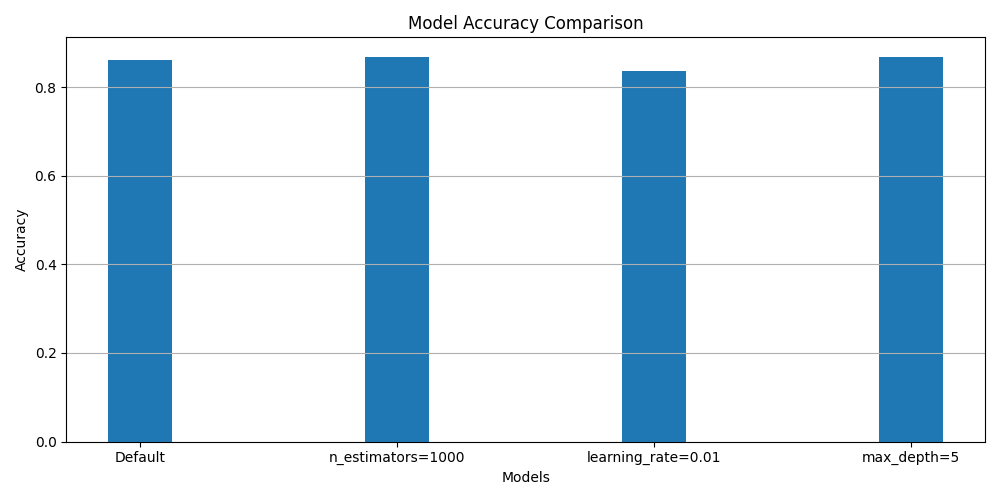
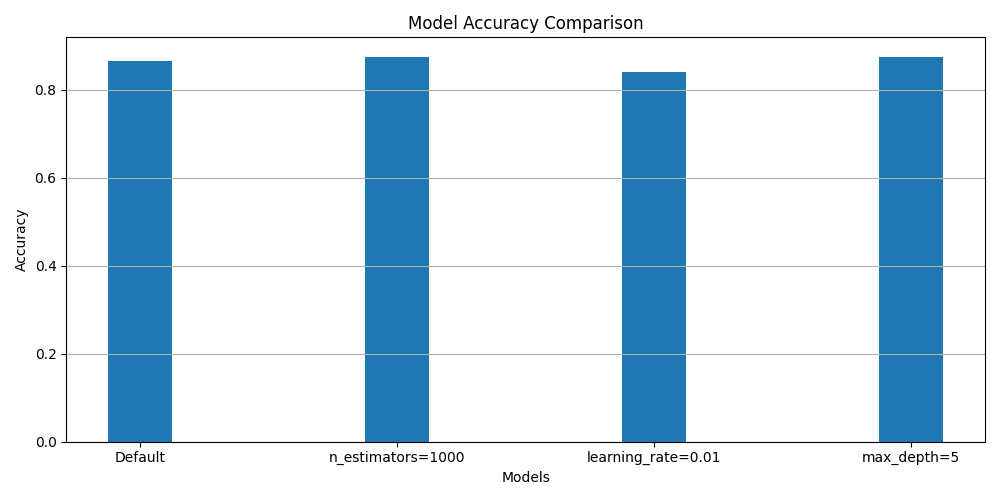
Majority of addition for clean code
Changed code according to comments and to
-make terminal output more clean.
-make code and output readable
-added graph for important feature.
-

diff --git a/harshal_gradient_boosting.py b/harshal_gradient_boosting.py
@@ -1,8 +1,8 @@
 import numpy as np
 import pandas as pd
 import timeit
-import memory_profiler
-import sklearn.model_selection as skms
+
+from sklearn.model_selection import train_test_split
 import sklearn.metrics as metrics
 import matplotlib.pyplot as plt
 from sklearn.ensemble import GradientBoostingClassifier
@@ -15,146 +15,163 @@ adult_data = pd.read_csv("data/group7-adult.csv")
 adult_data.replace(" ?", np.nan, inplace=True)
 adult_data.dropna(inplace=True)
 
-# Convert categorical data to numeric
-adult_data = pd.get_dummies(adult_data)
+# Remove/strip white spaces from all string columns
+string_cols = adult_data.select_dtypes(include=['object']).columns
+for col in string_cols:
+    adult_data[col] = adult_data[col].str.strip()
 
 # Features and target
-X = adult_data.drop(["income_ >50K", "income_ <=50K"], axis=1)
-y = adult_data["income_ >50K"]
+y = adult_data["income"]
+X = adult_data.drop("income", axis=1)
 
 # Split data 
-(Adult_training_ftrs, Adult_test_ftrs,
- adult_training_tgt, adult_test_tgt) = skms.train_test_split(
-    X, y, random_state=0
+(X_train, X_test,
+ y_train, y_test) = train_test_split(
+    X, y, random_state=0, stratify=y
 )
 
-print(f'Training features shape: {Adult_training_ftrs.shape}')
-print(f'Test features shape: {Adult_test_ftrs.shape}')
+print(f'\nTraining set: {X_train.shape[0]}, features: {X_train.shape[1]}')
+print(f'Test set: {X_test.shape[0]}, features: {X_test.shape[1]}\n')
+
+# Convert categorical data to numeric
+X_train = pd.get_dummies(X_train)
+X_test = pd.get_dummies(X_test)
+
+# Align train and test columns
+X_train, X_test = X_train.align(X_test, join='left', axis=1, fill_value=0)
 
 # Dictionary to store results
 results = {}
 
 
-# ---------------- MODELS ----------------
+            # MODELS #
+results = {}
 
-@memory_profiler.profile(precision=4)
-def run_model_default(Adult_training_ftrs, adult_training_tgt, Adult_test_ftrs, adult_test_tgt):
-    gbrt = GradientBoostingClassifier(random_state=0)
+# MODEL 1: Default 
+gbrt = GradientBoostingClassifier(random_state=0)
 
-    start_time = timeit.default_timer()
-    model = gbrt.fit(Adult_training_ftrs, adult_training_tgt)
-    end_time = timeit.default_timer()
-    train_time = round(1000*(end_time - start_time), 2)
+start_time = timeit.default_timer()
+model1 = gbrt.fit(X_train, y_train)
+end_time = timeit.default_timer()
+train_time = round(1000 * (end_time - start_time), 2)
 
-    print("\nModel 1 (Default)")
-    print(f'Training time: {train_time} ms')
+start_time = timeit.default_timer()
+pred1 = model1.predict(X_test)
+end_time = timeit.default_timer()
+pred_time = round(1000 * (end_time - start_time), 2)
 
-    start_time = timeit.default_timer()
-    predictions = model.predict(Adult_test_ftrs)
-    end_time = timeit.default_timer()
-    pred_time = round(1000*(end_time - start_time), 2)
+acc1 = metrics.accuracy_score(y_test, pred1)
 
-    print(f'Prediction time: {pred_time} ms')
+print("\nModel 1 - Default")
+print(f"Training Time: {train_time} ms")
+print(f"Prediction Time: {pred_time} ms")
+print(f"Accuracy: {acc1:.3f} ({round(100*acc1,1)}%)")
 
-    acc = metrics.accuracy_score(adult_test_tgt, predictions)
-    print(f'Accuracy: {acc:.3f} ({round(100*acc,1)}%)\n')
-
-    results["Default"] = {"train_time": train_time, "pred_time": pred_time, "accuracy": acc}
-
-
-@memory_profiler.profile(precision=4)
-def run_model_estimators(Adult_training_ftrs, adult_training_tgt, Adult_test_ftrs, adult_test_tgt):
-    gbrt = GradientBoostingClassifier(n_estimators=1000, random_state=0)
-
-    start_time = timeit.default_timer()
-    model = gbrt.fit(Adult_training_ftrs, adult_training_tgt)
-    end_time = timeit.default_timer()
-    train_time = round(1000*(end_time - start_time), 2)
-
-    print("\nModel 2 (n_estimators=1000)")
-    print(f'Training time: {train_time} ms')
-
-    start_time = timeit.default_timer()
-    predictions = model.predict(Adult_test_ftrs)
-    end_time = timeit.default_timer()
-    pred_time = round(1000*(end_time - start_time), 2)
-
-    print(f'Prediction time: {pred_time} ms')
-
-    acc = metrics.accuracy_score(adult_test_tgt, predictions)
-    print(f'Accuracy: {acc:.3f} ({round(100*acc,1)}%)\n')
-
-    results["n_estimators=1000"] = {"train_time": train_time, "pred_time": pred_time, "accuracy": acc}
+results["Default"] = (train_time, pred_time, acc1)
 
 
-@memory_profiler.profile(precision=4)
-def run_model_lr(Adult_training_ftrs, adult_training_tgt, Adult_test_ftrs, adult_test_tgt):
-    gbrt = GradientBoostingClassifier(learning_rate=0.01, random_state=0)
+# MODEL 2: n_estimators=1000 
+gbrt = GradientBoostingClassifier(n_estimators=1000, random_state=0)
 
-    start_time = timeit.default_timer()
-    model = gbrt.fit(Adult_training_ftrs, adult_training_tgt)
-    end_time = timeit.default_timer()
-    train_time = round(1000*(end_time - start_time), 2)
+start_time = timeit.default_timer()
+model2 = gbrt.fit(X_train, y_train)
+end_time = timeit.default_timer()
+train_time = round(1000 * (end_time - start_time), 2)
 
-    print("\nModel 3 (learning_rate=0.01)")
-    print(f'Training time: {train_time} ms')
+start_time = timeit.default_timer()
+pred2 = model2.predict(X_test)
+end_time = timeit.default_timer()
+pred_time = round(1000 * (end_time - start_time), 2)
 
-    start_time = timeit.default_timer()
-    predictions = model.predict(Adult_test_ftrs)
-    end_time = timeit.default_timer()
-    pred_time = round(1000*(end_time - start_time), 2)
+acc2 = metrics.accuracy_score(y_test, pred2)
 
-    print(f'Prediction time: {pred_time} ms')
+print("\nModel 2 - n_estimators=1000")
+print(f"Training Time: {train_time} ms")
+print(f"Prediction Time: {pred_time} ms")
+print(f"Accuracy: {acc2:.3f} ({round(100*acc2,1)}%)")
 
-    acc = metrics.accuracy_score(adult_test_tgt, predictions)
-    print(f'Accuracy: {acc:.3f} ({round(100*acc,1)}%)\n')
-
-    results["learning_rate=0.01"] = {"train_time": train_time, "pred_time": pred_time, "accuracy": acc}
+results["n_estimators=1000"] = (train_time, pred_time, acc2)
 
 
-@memory_profiler.profile(precision=4)
-def run_model_depth(Adult_training_ftrs, adult_training_tgt, Adult_test_ftrs, adult_test_tgt):
-    gbrt = GradientBoostingClassifier(max_depth=5, random_state=0)
+# MODEL 3: learning_rate=0.01 
+gbrt = GradientBoostingClassifier(learning_rate=0.01, random_state=0)
 
-    start_time = timeit.default_timer()
-    model = gbrt.fit(Adult_training_ftrs, adult_training_tgt)
-    end_time = timeit.default_timer()
-    train_time = round(1000*(end_time - start_time), 2)
+start_time = timeit.default_timer()
+model3 = gbrt.fit(X_train, y_train)
+end_time = timeit.default_timer()
+train_time = round(1000 * (end_time - start_time), 2)
 
-    print("\nModel 4 (max_depth=5)")
-    print(f'Training time: {train_time} ms')
+start_time = timeit.default_timer()
+pred3 = model3.predict(X_test)
+end_time = timeit.default_timer()
+pred_time = round(1000 * (end_time - start_time), 2)
 
-    start_time = timeit.default_timer()
-    predictions = model.predict(Adult_test_ftrs)
-    end_time = timeit.default_timer()
-    pred_time = round(1000*(end_time - start_time), 2)
+acc3 = metrics.accuracy_score(y_test, pred3)
 
-    print(f'Prediction time: {pred_time} ms')
+print("\nModel 3 - learning_rate=0.01")
+print(f"Training Time: {train_time} ms")
+print(f"Prediction Time: {pred_time} ms")
+print(f"Accuracy: {acc3:.3f} ({round(100*acc3,1)}%)")
 
-    acc = metrics.accuracy_score(adult_test_tgt, predictions)
-    print(f'Accuracy: {acc:.3f} ({round(100*acc,1)}%)\n')
-
-    results["max_depth=5"] = {"train_time": train_time, "pred_time": pred_time, "accuracy": acc}
+results["learning_rate=0.01"] = (train_time, pred_time, acc3)
 
 
-# Run models
-run_model_default(Adult_training_ftrs, adult_training_tgt, Adult_test_ftrs, adult_test_tgt)
-run_model_estimators(Adult_training_ftrs, adult_training_tgt, Adult_test_ftrs, adult_test_tgt)
-run_model_lr(Adult_training_ftrs, adult_training_tgt, Adult_test_ftrs, adult_test_tgt)
-run_model_depth(Adult_training_ftrs, adult_training_tgt, Adult_test_ftrs, adult_test_tgt)
+# MODEL 4: max_depth=5 
+gbrt = GradientBoostingClassifier(max_depth=5, random_state=0)
+
+start_time = timeit.default_timer()
+model4 = gbrt.fit(X_train, y_train)
+end_time = timeit.default_timer()
+train_time = round(1000 * (end_time - start_time), 2)
+
+start_time = timeit.default_timer()
+pred4 = model4.predict(X_test)
+end_time = timeit.default_timer()
+pred_time = round(1000 * (end_time - start_time), 2)
+
+acc4 = metrics.accuracy_score(y_test, pred4)
+
+print("\nModel 4 - max_depth=5")
+print(f"Training Time: {train_time} ms")
+print(f"Prediction Time: {pred_time} ms")
+print(f"Accuracy: {acc4:.3f} ({round(100*acc4,1)}%)")
+
+results["max_depth=5"] = (train_time, pred_time, acc4)
 
 
-# ----------- GRAPH SECTION -----------
 
+             # GRAPH SECTION #
 model_names = list(results.keys())
-train_times = [results[m]["train_time"] for m in model_names]
-pred_times = [results[m]["pred_time"] for m in model_names]
-accuracies = [results[m]["accuracy"] for m in model_names]
+
+train_times = [results[m][0] for m in model_names]
+pred_times = [results[m][1] for m in model_names]
+accuracies = [results[m][2] for m in model_names]
 
 x = np.arange(len(model_names))
 width = 0.25
 
-# Time Graph
+importances = gbrt.feature_importances_
+features = X_train.columns
+
+indices = np.argsort(importances)[-15:]
+
+top_features = features[indices]
+top_importances = importances[indices]
+
+order = np.argsort(top_importances)
+top_features = top_features[order]
+top_importances = top_importances[order]
+
+plt.figure(figsize=(10,6))
+plt.barh(top_features, top_importances)
+plt.title("Top 15 Feature Importance")
+plt.xlabel("Importance (Decimal)")
+plt.ylabel("Features")
+plt.grid(axis='x')
+plt.tight_layout()
+plt.savefig('ImportantFeatures.png')
+plt.show()
+
 plt.figure(figsize=(10,5))
 plt.bar(x - width/2, train_times, width, label="Training Time (ms)")
 plt.bar(x + width/2, pred_times, width, label="Prediction Time (ms)")
@@ -162,14 +179,13 @@ plt.yscale('log')
 plt.xticks(x, model_names)
 plt.title("Model Time Comparison")
 plt.xlabel("Models")
-plt.ylabel("Time (log scale)")
+plt.ylabel("Time")
 plt.legend()
 plt.grid(axis='y')
 plt.tight_layout()
 plt.savefig('TrainVsPredTime.png')
 plt.show()
 
-# Accuracy Graph
 plt.figure(figsize=(10,5))
 plt.bar(x, accuracies, width)
 plt.xticks(x, model_names)
